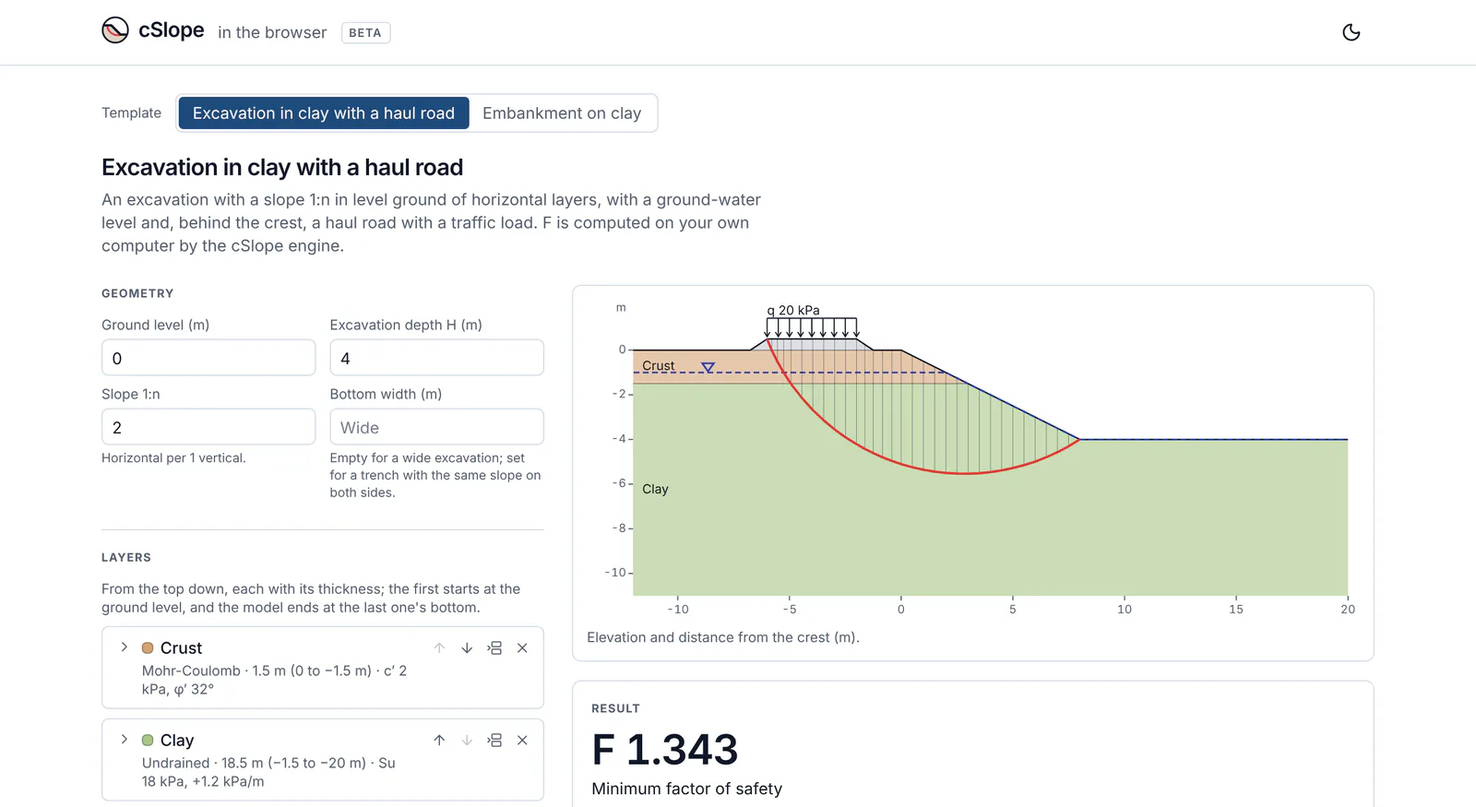
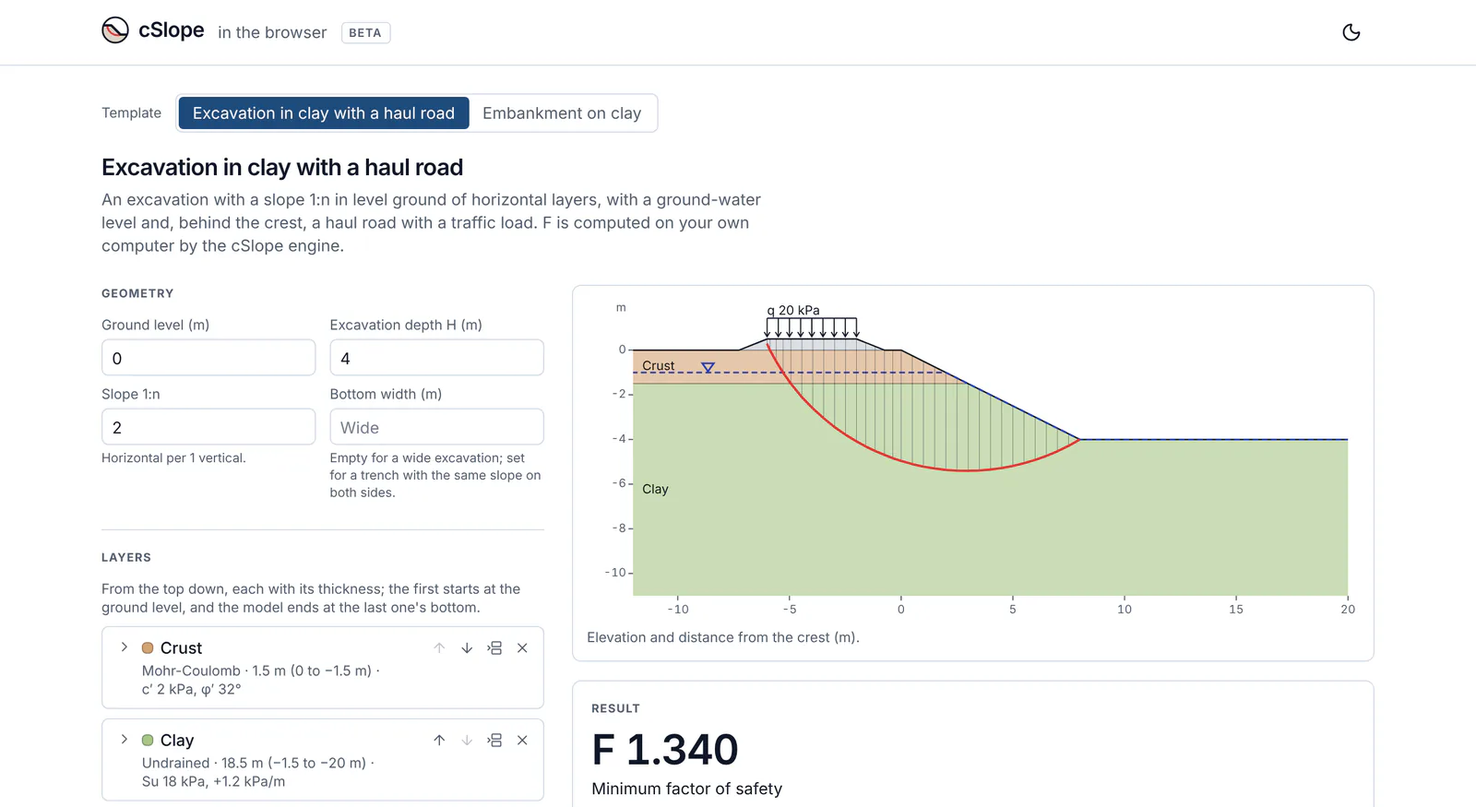
Web: review fixes: outline while the layers are wrong, labels, focus, Su above 0
- While the layers cannot be built, the drawing shows only the section's
  outline, greyed, with "Fix the layers to draw the section.", not the
  last section's layers (a removed layer was still drawn).
- "Open in cSlope" (a link to the download page) is "Get the cSlope app";
  the disabled Download .cslp button and its sentence are hidden until
  the download works (#107).
- The phone's result bar has the card's label, "Minimum factor of
  safety"; Download JSON's tooltip says cslope analyze; a layer's header
  summary has no-break spaces between values and units.
- An undrained Su must be more than 0.
- After a layer moves to the top or the bottom, the focus goes to its
  other move button (the pressed one is disabled).
- The γ fields say to enter the saturated unit weight below the water
  level.
- Docs: the limitations describe ponding at the level; the website's
  screenshot of the browser version is recaptured (F 1.343 → 1.340).

Claude-Session: https://claude.ai/code/session_01BL3SnYT7y9qgZYwTFmy79Q

diff --git a/packages/web/src/App.test.tsx b/packages/web/src/App.test.tsx
@@ -117,7 +117,8 @@ describe("App", () => {
     expect(within(card).getByText("Minimum factor of safety")).toBeInTheDocument();
     // The bar that keeps F in view on a phone, with a link to the card.
     const bar = screen.getByRole("complementary", { name: "Result summary" });
-    expect(bar).toHaveTextContent("F 1.234Factor of safety");
+    // The same label as the card's.
+    expect(bar).toHaveTextContent("F 1.234Minimum factor of safety");
     expect(within(bar).getByRole("link", { name: "Result" })).toHaveAttribute("href", "#result");
     // The engine's warnings are not shown (the app shows them): the page's users cannot act on them.
     expect(screen.queryByText("The surface enters the slope at 71°.")).toBeNull();
@@ -138,8 +139,11 @@ describe("App", () => {
     type("Su (kPa)", "-5");
     expect(field("Su (kPa)")).toHaveAttribute("aria-invalid", "true");
     // At the field, the bounds alone: the field's label is beside them.
-    expect(screen.getByText("Must be at least 0 kPa.")).toBeInTheDocument();
+    expect(screen.getByText("Must be more than 0 kPa.")).toBeInTheDocument();
     expect(screen.getByRole("status")).toHaveTextContent("To get F, correct the field marked in red.");
+    // Su 0 is refused too: an undrained layer needs a strength.
+    type("Su (kPa)", "0");
+    expect(field("Su (kPa)")).toHaveAttribute("aria-invalid", "true");
     await act(() => new Promise<void>((r) => setTimeout(r, 400)));
     expect(requests).toEqual([]);
   });
@@ -207,17 +211,22 @@ describe("App", () => {
     expect(header(/^Clay/)).toHaveTextContent("18.5 m (−2.5 to −21 m)");
     expect(document.activeElement).toBe(field("Name"));
     type("Name", "Silt");
-    // Down twice from the top: the focus stays on "Move Crust down", then (at the end, where it is disabled) on the header.
+    // Down twice from the top: the focus stays on "Move Crust down", then (at the end, where it is disabled) on "Move Crust up".
     fireEvent.click(screen.getByRole("button", { name: "Move Crust down" }));
     expect(names().map((t) => /^(Silt|Crust|Clay)/.exec(t ?? "")?.[0])).toEqual(["Silt", "Crust", "Clay"]);
     expect(document.activeElement).toBe(screen.getByRole("button", { name: "Move Crust down" }));
     expect(header(/^Crust/)).toHaveTextContent("1.5 m (−1 to −2.5 m)");
     fireEvent.click(screen.getByRole("button", { name: "Move Crust down" }));
     expect(screen.getByRole("button", { name: "Move Crust down" })).toBeDisabled();
-    expect(document.activeElement).toBe(header(/^Crust/));
+    expect(document.activeElement).toBe(screen.getByRole("button", { name: "Move Crust up" }));
     expect(header(/^Crust/)).toHaveTextContent("1.5 m (−19.5 to −21 m)");
     fireEvent.click(screen.getByRole("button", { name: "Move Crust up" }));
     expect(document.activeElement).toBe(screen.getByRole("button", { name: "Move Crust up" }));
+    // Up to the top: "Move Crust up" is disabled, the focus goes to "Move Crust down".
+    fireEvent.click(screen.getByRole("button", { name: "Move Crust up" }));
+    expect(screen.getByRole("button", { name: "Move Crust up" })).toBeDisabled();
+    expect(document.activeElement).toBe(screen.getByRole("button", { name: "Move Crust down" }));
+    fireEvent.click(screen.getByRole("button", { name: "Move Crust down" }));
     // A problem stays with the moved layer's field: the crust's c′, moved from the second place to the first.
     fireEvent.click(header(/^Crust/));
     type("c′ (kPa)", "-1");
@@ -302,6 +311,32 @@ describe("App", () => {
     expect(crust).not.toHaveTextContent("Problem");
   });
 
+  it("draws only the outline, greyed, while the layers cannot be built, and the layers again once they can", () => {
+    window.history.replaceState(null, "", "/?" + toQuery(draftOf("excavation", EXCAVATION_EXAMPLES["crust-over-clay"])));
+    renderApp({ loadEngine: () => new Promise(() => {}) });
+    const section = () => screen.getByRole("img", { name: /section/i });
+    expect(section()).toHaveAccessibleName(/^Section of the excavation: 2 layers/);
+    expect(within(section()).getByText("Crust")).toBeInTheDocument();
+    fireEvent.click(screen.getByRole("button", { name: /^Clay/ }));
+    type("Thickness (m)", "abc");
+    // Not the last section's layers: the outline, and a note.
+    expect(section()).toHaveAccessibleName("Outline of the section; the layers are drawn when they are correct.");
+    expect(within(section()).queryByText("Crust")).toBeNull();
+    expect(within(section()).queryByText("Clay")).toBeNull();
+    expect(screen.getByText(/^Fix the layers to draw the section\./)).toBeInTheDocument();
+    // An empty thickness, or a removed layer that leaves the rest invalid, the same.
+    type("Thickness (m)", "");
+    expect(section()).toHaveAccessibleName(/^Outline of the section/);
+    type("Thickness (m)", "10");
+    expect(section()).toHaveAccessibleName(/^Section of the excavation: 2 layers/);
+    expect(within(section()).getByText("Clay")).toBeInTheDocument();
+    expect(screen.queryByText(/^Fix the layers to draw the section\./)).toBeNull();
+    // Removing the clay leaves the crust ending above the excavation bottom: the removed clay is not drawn.
+    fireEvent.click(screen.getByRole("button", { name: "Remove Clay" }));
+    expect(section()).toHaveAccessibleName(/^Outline of the section/);
+    expect(within(section()).queryByText("Clay")).toBeNull();
+  });
+
   it("names the layer kinds as the app names its material models", () => {
     window.history.replaceState(null, "", "/?t=excavation&layers=2&layer1.kind=undrained&layer1.t=5&layer1.su=10&layer1.suRate=1.5&layer2.kind=mohr-coulomb&layer2.t=15");
     renderApp({ loadEngine: () => new Promise(() => {}) });
@@ -378,11 +413,13 @@ describe("App", () => {
     expect(screen.getByRole("status")).toHaveTextContent("The engine could not load: no network");
   });
 
-  it("links to the website's download and limitations pages; the .cslp download waits", () => {
+  it("links to the website's download and limitations pages; no .cslp download yet", () => {
     renderApp({ loadEngine: () => new Promise(() => {}) });
-    expect(screen.getByRole("link", { name: "Open in cSlope" })).toHaveAttribute("href", "https://cslope.com/download");
+    expect(screen.getByRole("link", { name: "Get the cSlope app" })).toHaveAttribute("href", "https://cslope.com/download");
     expect(screen.getByRole("link", { name: "limitations" })).toHaveAttribute("href", "https://cslope.com/docs/browser#limitations");
-    expect(screen.getByRole("button", { name: "Download .cslp" })).toBeDisabled();
+    // The .cslp download is not shown until it works (#107).
+    expect(screen.queryByRole("button", { name: "Download .cslp" })).toBeNull();
+    expect(screen.queryByText(/\.cslp/)).toBeNull();
   });
 
   it("switches the theme and remembers it", async () => {

diff --git a/packages/web/src/App.tsx b/packages/web/src/App.tsx
@@ -20,6 +20,9 @@ type Run =
   | { kind: "failed"; key: string; message: string }
   | { kind: "cancelled"; key: string };
 
+/** The fields of the layers' geometry: the list and each thickness. */
+const LAYER_GEOMETRY = /^layers(\.\d+\.thickness)?$/;
+
 /** How long the form waits after a change before it runs (ms). */
 const RUN_DELAY = 300;
 
@@ -40,9 +43,6 @@ function buildDocument(spec: AnySpec, form: FormState): { doc: AnalysisDocument 
     return { doc: null, error: err instanceof Error ? err.message : String(err) };
   }
 }
-
-/** "factor of safety" as a label: "Factor of safety". */
-const sentenceCase = (text: string) => text.charAt(0).toUpperCase() + text.slice(1);
 
 function download(name: string, text: string) {
   const url = URL.createObjectURL(new Blob([text], { type: "application/json" }));
@@ -109,8 +109,10 @@ export function App({ client }: { client: AnalysisClient }) {
   const key = useMemo(() => (doc ? JSON.stringify(doc) : null), [doc]);
   const notes = useMemo(() => (form.ready ? spec.template.notes(form.params) : []), [spec, form]);
 
-  // The drawing keeps the last section it could draw while a geometry field is being typed.
+  // The drawing keeps the last section it could draw while a geometry field is being typed;
+  // while the layers cannot be built, only its outline, greyed (not layers that are no longer there).
   const shape = useMemo(() => drawable(spec, form), [spec, form]);
+  const layersBroken = form.missing.some((f) => LAYER_GEOMETRY.test(f)) || [...form.errors.keys()].some((f) => LAYER_GEOMETRY.test(f));
   const [lastShape, setLastShape] = useState(() => ({ template: draft.template, params: shape }));
   if (shape && shape !== lastShape.params) setLastShape({ template: draft.template, params: shape });
 
@@ -185,9 +187,12 @@ export function App({ client }: { client: AnalysisClient }) {
 
   const slices: SliceData[] | null = outcome?.kind === "complete" ? outcome.result.criticalSlices : null;
   const drawn = lastShape.template === draft.template ? lastShape.params : null;
-  const sectionLabel = drawn
-    ? `Section of ${spec.describe(drawn)}${slices && outcome?.kind === "complete" ? `, and the critical surface of F ${outcome.summary.fosText}` : ""}.`
-    : "";
+  const outlineOnly = !!drawn && !shape && layersBroken;
+  const sectionLabel = !drawn
+    ? ""
+    : outlineOnly
+      ? "Outline of the section; the layers are drawn when they are correct."
+      : `Section of ${spec.describe(drawn)}${slices && outcome?.kind === "complete" ? `, and the critical surface of F ${outcome.summary.fosText}` : ""}.`;
 
   return (
     <>
@@ -208,11 +213,11 @@ export function App({ client }: { client: AnalysisClient }) {
           <div className="min-w-0 space-y-4 lg:sticky lg:top-20 lg:self-start">
             <figure className="rounded-lg border bg-card p-3">
               {drawn ? (
-                <Section shapes={spec.shapes(drawn)} layers={drawn.layers} slices={slices} label={sectionLabel} />
+                <Section shapes={spec.shapes(drawn)} layers={drawn.layers} slices={slices} label={sectionLabel} outlineOnly={outlineOnly} />
               ) : (
                 <p className="p-6 text-sm text-muted-foreground">The section is drawn when the geometry is filled in.</p>
               )}
-              <figcaption className="mt-1 text-xs text-muted-foreground">{spec.caption}</figcaption>
+              <figcaption className="mt-1 text-xs text-muted-foreground">{outlineOnly ? `Fix the layers to draw the section. ${spec.caption}` : spec.caption}</figcaption>
             </figure>
             <ResultCard
               state={state}
@@ -241,7 +246,7 @@ export function App({ client }: { client: AnalysisClient }) {
         <aside aria-label="Result summary" className="fixed inset-x-0 bottom-0 z-40 border-t bg-background/95 backdrop-blur lg:hidden">
           <div className="mx-auto flex h-11 max-w-6xl items-center gap-3 px-4 text-sm">
             <span className="font-semibold tabular">F {state.summary.fosText}</span>
-            <span className="min-w-0 truncate text-muted-foreground">{sentenceCase(state.summary.fosLabel)}</span>
+            <span className="min-w-0 truncate text-muted-foreground">{state.summary.fosHeading}</span>
             <a href="#result" className="ml-auto text-primary underline-offset-4 hover:underline">
               Result
             </a>

diff --git a/packages/web/src/templates/common.ts b/packages/web/src/templates/common.ts
@@ -99,8 +99,8 @@ export const WATER_LEVEL = p("waterLevel", "Ground-water level (m)", "m", -100, 
 export const LAYER_PARAMETERS = {
   bottomLevel: p("bottomLevel", "Bottom level (m)", "m", -100, 1000, 0.1, "The elevation of the layer's bottom. A layer is at least 0.05 m thick."),
   // The bounds of the strengths and unit weights are the engine's (the app's Materials window takes the same).
-  gamma: p("gamma", "γ (kN/m³)", "kN/m³", 0, 500, 0.1, "The unit weight, above and below the water.", { minExclusive: true, typical: [10, 25] }),
-  su: p("su", "Su (kPa)", "kPa", 0, Infinity, 0.5, "The undrained shear strength; when it increases with depth, its value at the top of the layer.", { typical: [1, 500] }),
+  gamma: p("gamma", "γ (kN/m³)", "kN/m³", 0, 500, 0.1, "One unit weight, used above and below the water. Below the water level, enter the saturated unit weight.", { minExclusive: true, typical: [10, 25] }),
+  su: p("su", "Su (kPa)", "kPa", 0, Infinity, 0.5, "The undrained shear strength, more than 0; when it increases with depth, its value at the top of the layer.", { minExclusive: true, typical: [1, 500] }),
   suRate: p("suRate", "Su increase rate (kPa/m)", "kPa/m", 0, Infinity, 0.1, "The increase of Su per meter below the top of the layer (by elevation). Empty: Su constant.", { typical: [0, 10] }),
   c: p("c", "c′ (kPa)", "kPa", 0, Infinity, 0.5, "The effective cohesion. c′ and φ′ cannot both be 0.", { typical: [0, 100] }),
   phi: p("phi", "φ′ (°)", "°", 0, 90, 0.5, "The effective friction angle. c′ and φ′ cannot both be 0.", { maxExclusive: true, typical: [5, 45] }),
@@ -108,7 +108,7 @@ export const LAYER_PARAMETERS = {
 
 /** A fill's fields: a Mohr-Coulomb material (drained), as the app names it. */
 export const FILL_PARAMETERS = {
-  gamma: p("gamma", "Fill γ (kN/m³)", "kN/m³", 0, 500, 0.1, "The fill's unit weight, above and below the water. The fill is a Mohr-Coulomb material (drained).", { minExclusive: true, typical: [15, 24] }),
+  gamma: p("gamma", "Fill γ (kN/m³)", "kN/m³", 0, 500, 0.1, "The fill's unit weight, used above and below the water; below the water level, enter the saturated unit weight. The fill is a Mohr-Coulomb material (drained).", { minExclusive: true, typical: [15, 24] }),
   c: p("c", "Fill c′ (kPa)", "kPa", 0, Infinity, 0.5, "The effective cohesion of the fill (Mohr-Coulomb). c′ and φ′ cannot both be 0.", { typical: [0, 20] }),
   phi: p("phi", "Fill φ′ (°)", "°", 0, 90, 0.5, "The effective friction angle of the fill (Mohr-Coulomb). c′ and φ′ cannot both be 0.", { maxExclusive: true, typical: [25, 45] }),
 };

diff --git a/packages/web/src/section/Section.tsx b/packages/web/src/section/Section.tsx
@@ -41,11 +41,13 @@ export interface SectionProps {
   slices: SliceData[] | null;
   /** A short sentence for screen readers: what the drawing shows. */
   label: string;
+  /** Only the outline, greyed: the layers cannot be built (the last section's layers would be stale). */
+  outlineOnly?: boolean;
 }
 
-export function Section({ shapes: s, layers, slices, label }: SectionProps) {
+export function Section({ shapes: s, layers, slices, label, outlineOnly = false }: SectionProps) {
   const [ref, width] = useWidth<HTMLDivElement>(720);
-  const surface = slices?.length ? surfaceLine(slices) : null;
+  const surface = !outlineOnly && slices?.length ? surfaceLine(slices) : null;
   const view = viewOf(s, surface);
   const top = view.y1;
   const scale = (width - MARGIN.left - MARGIN.right) / (view.x1 - view.x0);
@@ -67,6 +69,9 @@ export function Section({ shapes: s, layers, slices, label }: SectionProps) {
           </clipPath>
         </defs>
         <g clipPath={`url(#${clip})`}>
+        {outlineOnly && <path d={path(s.exterior)} className="fill-muted stroke-muted-foreground" strokeWidth={1.25} strokeLinejoin="round" strokeDasharray="4 3" />}
+        {!outlineOnly && (
+        <>
         {s.layers.map((poly, i) => (
           <path key={i} d={path(poly)} fill={layers[i].color ?? defaultLayerColor(i)} className={LAYER_FILL} />
         ))}
@@ -111,6 +116,8 @@ export function Section({ shapes: s, layers, slices, label }: SectionProps) {
             <line key={i} x1={X(a[0])} x2={X(b[0])} y1={Y(a[1])} y2={Y(b[1])} className="stroke-foreground/45" strokeWidth={0.5} />
           ))}
         {surface && <path d={path(surface, false)} className="fill-none stroke-signal" strokeWidth={2} strokeLinejoin="round" />}
+        </>
+        )}
         </g>
         {/* Axes: elevations at the left, distances from the crest below. */}
         <g className="fill-muted-foreground text-[10px] tabular">

diff --git a/packages/web/src/form/draft.test.ts b/packages/web/src/form/draft.test.ts
@@ -123,7 +123,7 @@ describe("the form's state", () => {
     expect(formState(d).params.layers[0].material).toEqual({ kind: "undrained", gamma: 16, su: 25 });
     d.layers[0].suRate = "1.5";
     expect(formState(d).params.layers[0].material).toEqual({ kind: "undrained-increasing", gamma: 16, su: 25, suRate: 1.5 });
-    expect(strengthSummary(d.layers[0])).toBe("Su 25 kPa, +1.5 kPa/m");
+    expect(strengthSummary(d.layers[0])).toBe("Su\u00a025\u00a0kPa, +1.5\u00a0kPa/m");
     expect(toQuery(d)).toContain("layer1.kind=undrained&layer1.t=20&layer1.gamma=16&layer1.su=25&layer1.suRate=1.5");
   });
 
@@ -158,9 +158,9 @@ describe("the form's state", () => {
     expect(bottomLevels(0, [1, NaN, 2])).toEqual([-1, NaN, NaN]);
     expect(thicknesses(30.2, [29.8, 29.7, 29.5])).toEqual([0.4, 0.1, 0.2]);
     expect(thicknesses(0, [-1.5, -15])).toEqual([1.5, 13.5]);
-    expect(rangeText(13.5, -1.5, -15)).toBe("13.5 m (−1.5 to −15 m)");
-    expect(rangeText(1.5, 0, -1.5)).toBe("1.5 m (0 to −1.5 m)");
-    expect(rangeText(2, NaN, NaN)).toBe("2 m");
+    expect(rangeText(13.5, -1.5, -15)).toBe("13.5\u00a0m (−1.5 to −15\u00a0m)");
+    expect(rangeText(1.5, 0, -1.5)).toBe("1.5\u00a0m (0 to −1.5\u00a0m)");
+    expect(rangeText(2, NaN, NaN)).toBe("2\u00a0m");
     const d = draftOf("excavation", EXCAVATION_EXAMPLES["crust-over-clay"]);
     expect(d.layers.map((l) => l.thickness)).toEqual(["1.5", "18.5"]);
     expect(draftLevels(d)).toEqual(EXCAVATION_EXAMPLES["crust-over-clay"].layers.map((l) => l.bottomLevel));

diff --git a/packages/web/src/result/ResultCard.tsx b/packages/web/src/result/ResultCard.tsx
@@ -136,21 +136,18 @@ export function ResultCard({ state, previous, canRun, canDownload, onRun, onCanc
             Run
           </Button>
         )}
-        <Button size="sm" variant="outline" onClick={onDownload} disabled={!canDownload} title={canDownload ? "The analysis document, which cslope analyse runs." : "Fill in the form to download it."}>
+        <Button size="sm" variant="outline" onClick={onDownload} disabled={!canDownload} title={canDownload ? "The analysis document, which cslope analyze runs." : "Fill in the form to download it."}>
           Download JSON
-        </Button>
-        <Button size="sm" variant="outline" disabled title="Not available yet: the engine in the browser cannot write cSlope projects.">
-          Download .cslp
         </Button>
         <Button size="sm" variant="outline" onClick={onCopyLink} title="Copy the address of this section: the parameters are in it, nothing is stored.">
           Copy link
         </Button>
         <Button size="sm" variant="link" asChild>
-          <a href={DOWNLOAD_URL}>Open in cSlope</a>
+          <a href={DOWNLOAD_URL}>Get the cSlope app</a>
         </Button>
       </div>
       <p className="mt-2 min-h-4 text-xs text-muted-foreground" aria-live="polite">
-        {notice ?? "The .cslp download comes when the engine in the browser can write cSlope projects."}
+        {notice}
       </p>
       <p className="mt-3 border-t pt-3 text-xs text-muted-foreground">
         {TEMPLATE_NOTE} See the{" "}

diff --git a/packages/web/src/form/draft.ts b/packages/web/src/form/draft.ts
@@ -67,14 +67,14 @@ export const LAYER_FIELDS: Record<LayerModel, Exclude<keyof typeof LAYER_PARAMET
   impenetrable: ["gamma"],
 };
 
-/** A layer's strength in a few words, from the text typed: "Su 18 kPa, +1.2 kPa/m", "c′ 3 kPa, φ′ 30°"; empty values are left out. */
+/** A layer's strength in a few words, from the text typed: "Su 18 kPa, +1.2 kPa/m", "c′ 3 kPa, φ′ 30°", each part with no-break spaces (it never wraps inside); empty values are left out. */
 export function strengthSummary(layer: LayerDraft): string {
   const v = (t: string) => t.trim();
   switch (layer.kind) {
     case "undrained":
-      return [v(layer.su) && `Su ${v(layer.su)} kPa`, v(layer.su) && v(layer.suRate) && `+${v(layer.suRate)} kPa/m`].filter(Boolean).join(", ");
+      return [v(layer.su) && `Su\u00a0${v(layer.su)}\u00a0kPa`, v(layer.su) && v(layer.suRate) && `+${v(layer.suRate)}\u00a0kPa/m`].filter(Boolean).join(", ");
     case "mohr-coulomb":
-      return [v(layer.c) && `c′ ${v(layer.c)} kPa`, v(layer.phi) && `φ′ ${v(layer.phi)}°`].filter(Boolean).join(", ");
+      return [v(layer.c) && `c′\u00a0${v(layer.c)}\u00a0kPa`, v(layer.phi) && `φ′\u00a0${v(layer.phi)}°`].filter(Boolean).join(", ");
     case "impenetrable":
       return "";
   }

diff --git a/packages/web/src/templates/excavation.test.ts b/packages/web/src/templates/excavation.test.ts
@@ -244,6 +244,13 @@ describe("the geometry rules", () => {
     expect(doc.formatVersion).toBe(1);
   });
 
+  it("refuses an undrained Su of 0 (the bound is exclusive), constant or at the top of a rate, and takes any Su above it", () => {
+    const withSu = (su: number, suRate?: number) => withLayers(base, { bottomLevel: -10, material: suRate === undefined ? { kind: "undrained", gamma: 16, su } : { kind: "undrained-increasing", gamma: 16, su, suRate } });
+    expect(excavationFieldProblems(withSu(0))).toEqual([{ field: "layers.0.su", message: "Must be more than 0 kPa.", general: "Layer 1: Su must be more than 0 kPa." }]);
+    expect(excavationProblems(withSu(0, 2))).toEqual(["Layer 1: Su must be more than 0 kPa."]);
+    expect(excavationProblems(withSu(0.5))).toEqual([]);
+  });
+
   it("refuses what it cannot build, with a sentence each", () => {
     expect(excavationProblems(base)).toEqual([]);
     expect(excavationProblems({ ...base, excavationDepth: 0 })).toEqual(["Excavation depth H must be from 0.5 to 20 m."]);

diff --git a/packages/web/src/form/Form.tsx b/packages/web/src/form/Form.tsx
@@ -425,12 +425,13 @@ export function Form({ spec, draft, onChange, errors, missing = [], notes }: For
     set("layers", layers);
     setFocus(headerIdOf(layers[Math.max(0, i - 1)]));
   };
-  // A moved layer keeps the focus on the same button, so that it can be pressed again; on its header once that button is disabled at the end.
+  // A moved layer keeps the focus on the same button, so that it can be pressed again; on its other move button once that one is disabled at the end (never lost to the page).
   const move = (i: number, by: -1 | 1) => {
     const layer = draft.layers[i];
     const to = i + by;
     set("layers", moveLayer(draft.layers, i, to));
-    setFocus(to === 0 || to === draft.layers.length - 1 ? headerIdOf(layer) : actionIdOf(layer, by < 0 ? "up" : "down"));
+    const atEnd = to === 0 || to === draft.layers.length - 1;
+    setFocus(actionIdOf(layer, (by < 0) !== atEnd ? "up" : "down"));
   };
   const layersError = errors.get("layers");
   const levels = draftLevels(draft);

diff --git a/packages/web/scripts/smoke.ts b/packages/web/scripts/smoke.ts
@@ -189,6 +189,9 @@ async function checkPage(page: Page, base: string): Promise<string[]> {
       const before = await fValue(page).textContent();
       await page.getByRole("button", { name: "Move Crust down" }).click();
       await page.waitForFunction(() => new URLSearchParams(location.search).get("layer1.name") === "Clay", null, { timeout: 5_000 });
+      // At the end the pressed button is disabled: the focus goes to the layer's other move button, not to the page.
+      const focused = await page.evaluate(() => document.activeElement?.getAttribute("aria-label"));
+      if (focused !== "Move Crust up") problems.push(`after a move to the end the focus is on "${focused}", expected "Move Crust up"`);
       const q = new URL(page.url()).searchParams;
       if (q.get("layer1.t") !== "18.5" || q.get("layer2.t") !== "1.5") problems.push(`after a move the address has the thicknesses ${q.get("layer1.t")}, ${q.get("layer2.t")}, expected 18.5, 1.5`);
       await page.waitForFunction((b) => {

diff --git a/packages/web/src/templates/embankment.test.ts b/packages/web/src/templates/embankment.test.ts
@@ -144,7 +144,7 @@ describe("the geometry rules", () => {
       { field: "fill.phi", message: "Must be at least 0° and less than 90°.", general: "Embankment: Fill φ′ must be at least 0° and less than 90°." },
       { field: "crestLoad", message: "Must be at least 0 kPa.", general: "Load on the crest q must be at least 0 kPa." },
       { field: "layers.1.bottomLevel", message: "Layer 2: the bottom level -14.98 must be at least 0.05 m below the layer above (-15)." },
-      { field: "layers.1.su", message: "Must be at least 0 kPa.", general: "Layer 2: Su must be at least 0 kPa." },
+      { field: "layers.1.su", message: "Must be more than 0 kPa.", general: "Layer 2: Su must be more than 0 kPa." },
       { field: "layers.0.name", message: 'A layer is named "Embankment", which is the embankment\'s material.' },
     ]);
     expect(() => embankmentDocument({ ...base, slope: 0 })).toThrow("Slope 1:n must be from 0.5 to 5.");

diff --git a/packages/web/src/form/layers.ts b/packages/web/src/form/layers.ts
@@ -44,8 +44,9 @@ export const levelText = (v: number) => num(v).replace("-", "−");
 
 /** A layer's thickness and its level range: "13.5 m (−1.5 to −15 m)"; the thickness alone when the levels are not known. */
 export function rangeText(thickness: number, top: number, bottom: number): string {
-  const t = `${num(thickness)} m`;
-  return Number.isFinite(top) && Number.isFinite(bottom) ? `${t} (${levelText(top)} to ${levelText(bottom)} m)` : t;
+  // No-break spaces between a value and its unit, so that "1.5 m" never wraps inside.
+  const t = `${num(thickness)}\u00a0m`;
+  return Number.isFinite(top) && Number.isFinite(bottom) ? `${t} (${levelText(top)} to ${levelText(bottom)}\u00a0m)` : t;
 }
 
 /** A thickness for a new layer: `preferred` m, less when the lowest level allowed (−100 m) is closer below `base`. */
